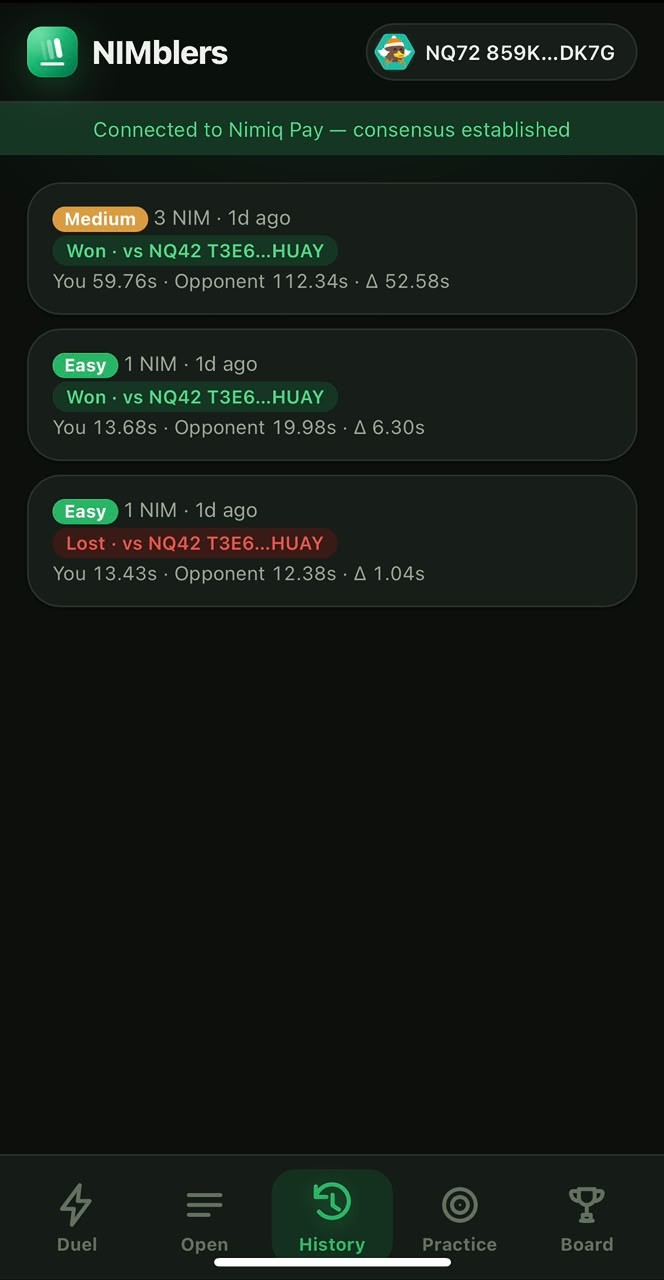
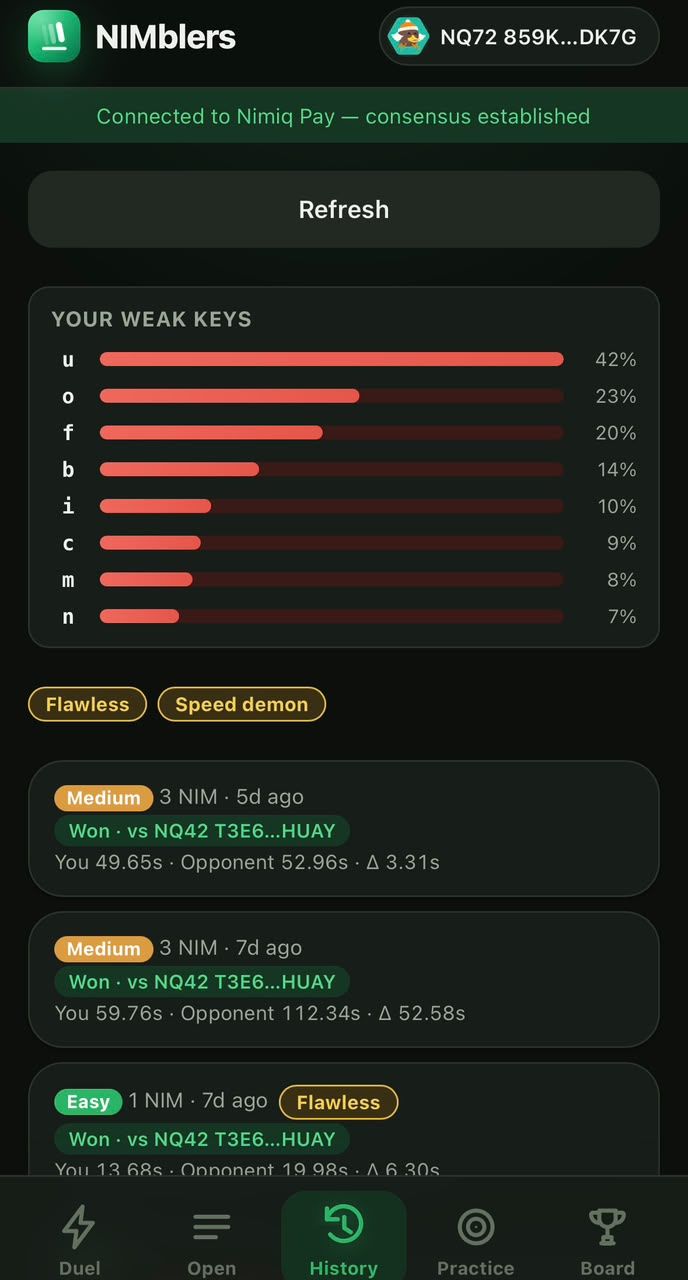
added all time leaderboard, updated images in readme

diff --git a/src/components/Leaderboard.tsx b/src/components/Leaderboard.tsx
@@ -1,63 +1,88 @@
-import { useEffect, useState } from 'react'
-import { errorMessage, formatAddressShort, formatLuna, readJsonOrThrow } from '../lib/api'
+import { useCallback, useEffect, useState } from 'react'
+import type { LeaderboardEntry, LeaderboardScope } from '../lib/api'
+import { errorMessage, fetchLeaderboard, formatAddressShort, formatLuna } from '../lib/api'
 import { BoardIcon } from './NavIcons'
 import { EmptyState } from './EmptyState'
 import { Identicon } from './Identicon'
 
-interface LeaderboardEntry {
-  rank: number
-  nimAddress: string
-  totalWonLuna: number
-  wins: number
-}
+/** Weekly is a fast-moving "who's hot right now" snapshot — 5 keeps it skimmable. All-time is a hall of fame players might actually want to scroll a bit further into. */
+const LIMIT_BY_SCOPE: Record<LeaderboardScope, number> = { weekly: 5, 'all-time': 10 }
 
 export function Leaderboard() {
+  const [scope, setScope] = useState<LeaderboardScope>('weekly')
   const [entries, setEntries] = useState<LeaderboardEntry[] | null>(null)
   const [error, setError] = useState<string | null>(null)
 
-  useEffect(() => {
-    let cancelled = false
-    fetch('/api/leaderboard')
-      .then((res) => readJsonOrThrow(res, 'Could not load the leaderboard'))
-      .then((body) => {
-        if (!cancelled) setEntries(body.leaderboard as LeaderboardEntry[])
-      })
-      .catch((err: unknown) => {
-        if (!cancelled) setError(errorMessage(err))
-      })
-    return () => {
-      cancelled = true
+  const load = useCallback(async (nextScope: LeaderboardScope) => {
+    try {
+      setEntries(await fetchLeaderboard(nextScope, LIMIT_BY_SCOPE[nextScope]))
+      setError(null)
+    }
+    catch (err) {
+      setError(errorMessage(err))
     }
   }, [])
 
-  if (error) return <p className="address-card-error">{error}</p>
-  if (entries === null) return <p className="section-note">Loading leaderboard…</p>
-  if (entries.length === 0) {
-    return (
-      <EmptyState
-        icon={<BoardIcon />}
-        title="No winners this week"
-        subtitle="Be the first to win a duel and claim the top spot. Resets every Monday 00:00 UTC."
-      />
-    )
-  }
+  useEffect(() => {
+    setEntries(null)
+    void load(scope)
+  }, [scope, load])
 
   return (
     <>
-      <p className="section-note">This week's winners — resets Monday 00:00 UTC.</p>
-      <ol className="leaderboard-list">
-        {entries.map((entry) => (
-          <li key={entry.nimAddress} className={`leaderboard-row ${entry.rank <= 3 ? `leaderboard-row-${entry.rank}` : ''}`}>
-            <span className={`leaderboard-medal ${entry.rank <= 3 ? `leaderboard-medal-${entry.rank}` : ''}`}>{entry.rank}</span>
-            <Identicon address={entry.nimAddress} size={28} />
-            <span className="leaderboard-address" title={entry.nimAddress}>{formatAddressShort(entry.nimAddress)}</span>
-            <span className="leaderboard-stats">
-              <span className="leaderboard-winnings">{formatLuna(entry.totalWonLuna)}</span>
-              <span className="leaderboard-wins">{entry.wins} win{entry.wins === 1 ? '' : 's'}</span>
-            </span>
-          </li>
-        ))}
-      </ol>
+      <div className="visibility-picker">
+        <button
+          type="button"
+          className={`btn btn-toggle ${scope === 'weekly' ? 'btn-toggle-active' : ''}`}
+          onClick={() => setScope('weekly')}
+        >
+          This week
+        </button>
+        <button
+          type="button"
+          className={`btn btn-toggle ${scope === 'all-time' ? 'btn-toggle-active' : ''}`}
+          onClick={() => setScope('all-time')}
+        >
+          All time
+        </button>
+      </div>
+      <button type="button" className="btn btn-secondary refresh-btn" onClick={() => void load(scope)}>
+        Refresh
+      </button>
+
+      {error && <p className="address-card-error">{error}</p>}
+      {entries === null && !error && <p className="section-note">Loading leaderboard…</p>}
+      {entries !== null && entries.length === 0 && (
+        <EmptyState
+          icon={<BoardIcon />}
+          title={scope === 'weekly' ? 'No winners this week' : 'No winners yet'}
+          subtitle={
+            scope === 'weekly'
+              ? 'Be the first to win a duel and claim the top spot. Resets every Monday 00:00 UTC.'
+              : 'Every NIM ever won will show up here, permanently.'
+          }
+        />
+      )}
+      {entries !== null && entries.length > 0 && (
+        <>
+          <p className="section-note">
+            {scope === 'weekly' ? "This week's winners — resets Monday 00:00 UTC." : 'Every NIM ever won, all-time.'}
+          </p>
+          <ol className="leaderboard-list">
+            {entries.map((entry) => (
+              <li key={entry.nimAddress} className={`leaderboard-row ${entry.rank <= 3 ? `leaderboard-row-${entry.rank}` : ''}`}>
+                <span className={`leaderboard-medal ${entry.rank <= 3 ? `leaderboard-medal-${entry.rank}` : ''}`}>{entry.rank}</span>
+                <Identicon address={entry.nimAddress} size={28} />
+                <span className="leaderboard-address" title={entry.nimAddress}>{formatAddressShort(entry.nimAddress)}</span>
+                <span className="leaderboard-stats">
+                  <span className="leaderboard-winnings">{formatLuna(entry.totalWonLuna)}</span>
+                  <span className="leaderboard-wins">{entry.wins} win{entry.wins === 1 ? '' : 's'}</span>
+                </span>
+              </li>
+            ))}
+          </ol>
+        </>
+      )}
     </>
   )
 }

diff --git a/server/leaderboard/service.ts b/server/leaderboard/service.ts
@@ -29,6 +29,26 @@ export function startOfWeekUtc(date: Date): Date {
   return new Date(Date.UTC(date.getUTCFullYear(), date.getUTCMonth(), date.getUTCDate() - daysSinceMonday))
 }
 
+async function rankByWinnings(db: Db, limit: number, since: Date | null): Promise<LeaderboardEntry[]> {
+  const rows = (await db.execute({
+    sql: `SELECT u.nim_address as nim_address, SUM(p.amount_luna) as total_won_luna, COUNT(*) as wins
+       FROM payouts p
+       JOIN users u ON u.id = p.user_id
+       WHERE p.type = 'PAYOUT' AND p.tx_hash IS NOT NULL ${since ? 'AND p.created_at >= ?' : ''}
+       GROUP BY p.user_id
+       ORDER BY total_won_luna DESC, wins DESC
+       LIMIT ?`,
+    args: since ? [since.toISOString(), limit] : [limit],
+  })).rows as unknown as LeaderboardRow[]
+
+  return rows.map((row, index) => ({
+    rank: index + 1,
+    nimAddress: row.nim_address,
+    totalWonLuna: row.total_won_luna,
+    wins: row.wins,
+  }))
+}
+
 /**
  * Ranks players by NIM won *this week only* — the sum of their completed
  * `PAYOUT` rows since the last Monday-00:00-UTC reset, which already
@@ -47,21 +67,14 @@ export function startOfWeekUtc(date: Date): Date {
  * activity or losses.
  */
 export async function getLeaderboard(db: Db, limit: number = DEFAULT_LEADERBOARD_LIMIT, now: Date = new Date()): Promise<LeaderboardEntry[]> {
-  const rows = (await db.execute({
-    sql: `SELECT u.nim_address as nim_address, SUM(p.amount_luna) as total_won_luna, COUNT(*) as wins
-       FROM payouts p
-       JOIN users u ON u.id = p.user_id
-       WHERE p.type = 'PAYOUT' AND p.tx_hash IS NOT NULL AND p.created_at >= ?
-       GROUP BY p.user_id
-       ORDER BY total_won_luna DESC, wins DESC
-       LIMIT ?`,
-    args: [startOfWeekUtc(now).toISOString(), limit],
-  })).rows as unknown as LeaderboardRow[]
+  return rankByWinnings(db, limit, startOfWeekUtc(now))
+}
 
-  return rows.map((row, index) => ({
-    rank: index + 1,
-    nimAddress: row.nim_address,
-    totalWonLuna: row.total_won_luna,
-    wins: row.wins,
-  }))
+/**
+ * The same ranking, but across every `PAYOUT` this house wallet has ever
+ * sent — no time window, nothing that resets. A weekly board rewards
+ * whoever's hot right now; this one is the actual hall of fame.
+ */
+export async function getAllTimeLeaderboard(db: Db, limit: number = DEFAULT_LEADERBOARD_LIMIT): Promise<LeaderboardEntry[]> {
+  return rankByWinnings(db, limit, null)
 }

diff --git a/server/leaderboard/service.test.ts b/server/leaderboard/service.test.ts
@@ -5,7 +5,7 @@ import type { Db } from '../db/client.ts'
 import { closeDb, getDb } from '../db/client.ts'
 import { migrateUp } from '../db/migrate.ts'
 import { getOrCreateUser } from '../db/users.ts'
-import { DEFAULT_LEADERBOARD_LIMIT, getLeaderboard, startOfWeekUtc } from './service.ts'
+import { DEFAULT_LEADERBOARD_LIMIT, getAllTimeLeaderboard, getLeaderboard, startOfWeekUtc } from './service.ts'
 
 process.env.DB_PATH = ':memory:'
 
@@ -132,4 +132,37 @@ test('getLeaderboard drops a player entirely once all their wins are from a prio
   const board = await getLeaderboard(db, DEFAULT_LEADERBOARD_LIMIT, new Date('2026-01-07T12:00:00Z'))
 
   assert.deepEqual(board, [])
+})
+
+// --- All-time ---
+
+test('getAllTimeLeaderboard includes a win no matter how long ago it settled', async () => {
+  const alice = await getOrCreateUser(db, ALICE)
+  await insertPayout(alice, 'PAYOUT', 500_000, { createdAt: '2020-01-01T00:00:00.000Z' })
+
+  const board = await getAllTimeLeaderboard(db)
+
+  assert.equal(board.length, 1)
+  assert.equal(board[0].totalWonLuna, 500_000)
+})
+
+test('getAllTimeLeaderboard sums wins across every week, not just the current one', async () => {
+  const alice = await getOrCreateUser(db, ALICE)
+  await insertPayout(alice, 'PAYOUT', 500_000, { createdAt: '2020-01-01T00:00:00.000Z' })
+  await insertPayout(alice, 'PAYOUT', 100_000, { createdAt: new Date().toISOString() })
+
+  const board = await getAllTimeLeaderboard(db)
+
+  assert.equal(board.length, 1)
+  assert.equal(board[0].totalWonLuna, 600_000)
+  assert.equal(board[0].wins, 2)
+})
+
+test('getAllTimeLeaderboard still excludes stakes, refunds, and unfulfilled payouts', async () => {
+  const alice = await getOrCreateUser(db, ALICE)
+  await insertPayout(alice, 'STAKE_RECEIVED', 100_000, { createdAt: '2020-01-01T00:00:00.000Z' })
+  await insertPayout(alice, 'REFUND', 100_000, { createdAt: '2020-01-01T00:00:00.000Z' })
+  await insertPayout(alice, 'PAYOUT', 100_000, { createdAt: '2020-01-01T00:00:00.000Z', fulfilled: false })
+
+  assert.deepEqual(await getAllTimeLeaderboard(db), [])
 })

diff --git a/server/leaderboard/httpServer.test.ts b/server/leaderboard/httpServer.test.ts
@@ -13,6 +13,7 @@ process.env.DB_PATH = ':memory:'
 
 const ALICE = 'NQ07 ALIC EAAA AAAA AAAA AAAA AAAA AAAA AAAA'
 const BOB = 'NQ07 BOBB AAAA AAAA AAAA AAAA AAAA AAAA AAAA'
+const CAROL = 'NQ07 CARO LAAA AAAA AAAA AAAA AAAA AAAA AAAA'
 
 let server: Server
 let baseUrl: string
@@ -76,4 +77,32 @@ test('GET /api/leaderboard ignores a bogus limit and falls back to the default',
   assert.equal(res.status, 200)
   const body = (await res.json()) as { leaderboard: unknown[] }
   assert.equal(body.leaderboard.length, 2)
+})
+
+test('GET /api/leaderboard/all-time includes a win from long before this week, which the weekly board excludes', async () => {
+  const db = await getDb()
+  const carol = await getOrCreateUser(db, CAROL)
+  await db.execute({
+    sql: `INSERT INTO payouts (id, idempotency_key, user_id, type, amount_luna, tx_hash, created_at)
+     VALUES (?, ?, ?, 'PAYOUT', ?, ?, ?)`,
+    args: [randomUUID(), randomUUID(), carol, 50_000, `tx-${randomUUID()}`, '2020-01-01T00:00:00.000Z'],
+  })
+
+  const weeklyRes = await fetch(`${baseUrl}/api/leaderboard`)
+  const weeklyBody = (await weeklyRes.json()) as { leaderboard: { nimAddress: string }[] }
+  assert.ok(!weeklyBody.leaderboard.some((e) => e.nimAddress === CAROL), 'the weekly board should not include a win from 2020')
+
+  const allTimeRes = await fetch(`${baseUrl}/api/leaderboard/all-time`)
+  assert.equal(allTimeRes.status, 200)
+  const allTimeBody = (await allTimeRes.json()) as { leaderboard: { nimAddress: string, totalWonLuna: number }[] }
+  assert.equal(allTimeBody.leaderboard.length, 3)
+  const carolEntry = allTimeBody.leaderboard.find((e) => e.nimAddress === CAROL)
+  assert.ok(carolEntry, 'the all-time board should include the 2020 win')
+  assert.equal(carolEntry.totalWonLuna, 50_000)
+})
+
+test('GET /api/leaderboard/all-time?limit=1 respects the limit', async () => {
+  const res = await fetch(`${baseUrl}/api/leaderboard/all-time?limit=1`)
+  const body = (await res.json()) as { leaderboard: unknown[] }
+  assert.equal(body.leaderboard.length, 1)
 })

diff --git a/server/leaderboard/httpServer.ts b/server/leaderboard/httpServer.ts
@@ -1,18 +1,31 @@
+import type { IncomingMessage } from 'node:http'
 import { getDb } from '../db/client.ts'
 import { getQueryParams, sendJson } from '../http/router.ts'
 import type { Router } from '../http/router.ts'
-import { DEFAULT_LEADERBOARD_LIMIT, getLeaderboard } from './service.ts'
+import { DEFAULT_LEADERBOARD_LIMIT, getAllTimeLeaderboard, getLeaderboard } from './service.ts'
 
 const MAX_LEADERBOARD_LIMIT = 100
+
+function parseLimit(req: IncomingMessage): number {
+  const requested = Number(getQueryParams(req).get('limit'))
+  return Number.isInteger(requested) && requested > 0
+    ? Math.min(requested, MAX_LEADERBOARD_LIMIT)
+    : DEFAULT_LEADERBOARD_LIMIT
+}
 
 export function registerLeaderboardRoutes(router: Router): void {
   router.get('/api/leaderboard', async (req, res) => {
     try {
-      const requested = Number(getQueryParams(req).get('limit'))
-      const limit = Number.isInteger(requested) && requested > 0
-        ? Math.min(requested, MAX_LEADERBOARD_LIMIT)
-        : DEFAULT_LEADERBOARD_LIMIT
-      sendJson(res, 200, { leaderboard: await getLeaderboard(await getDb(), limit) })
+      sendJson(res, 200, { leaderboard: await getLeaderboard(await getDb(), parseLimit(req)) })
+    }
+    catch (error) {
+      sendJson(res, 503, { error: error instanceof Error ? error.message : String(error) })
+    }
+  })
+
+  router.get('/api/leaderboard/all-time', async (req, res) => {
+    try {
+      sendJson(res, 200, { leaderboard: await getAllTimeLeaderboard(await getDb(), parseLimit(req)) })
     }
     catch (error) {
       sendJson(res, 503, { error: error instanceof Error ? error.message : String(error) })

diff --git a/src/lib/api.ts b/src/lib/api.ts
@@ -158,6 +158,23 @@ export async function fetchWeakKeys(nimAddress: string): Promise<WeakKeyStat[]> 
   return body.weakKeys as WeakKeyStat[]
 }
 
+export interface LeaderboardEntry {
+  rank: number
+  nimAddress: string
+  totalWonLuna: number
+  wins: number
+}
+
+export type LeaderboardScope = 'weekly' | 'all-time'
+
+/** `weekly` resets every Monday 00:00 UTC; `all-time` is every payout this house wallet has ever sent, no window. */
+export async function fetchLeaderboard(scope: LeaderboardScope, limit: number): Promise<LeaderboardEntry[]> {
+  const path = scope === 'weekly' ? '/api/leaderboard' : '/api/leaderboard/all-time'
+  const res = await fetch(`${path}?limit=${limit}`)
+  const body = await readJsonOrThrow(res, 'Could not load the leaderboard')
+  return body.leaderboard as LeaderboardEntry[]
+}
+
 export function formatSeconds(ms: number): string {
   return `${(ms / 1000).toFixed(2)}s`
 }

diff --git a/README.md b/README.md
@@ -25,8 +25,10 @@ An async 1v1 speed-typing wager, built as a Nimiq Pay Mini App.
 | Every settled duel, either side of it                                      | Ranked by NIM actually won, resets weekly                                     | The stake itself always goes through Nimiq Pay's own dialog                              |
 
 
-A settlement's payout, independently verified on-chain  
-![Testnet block explorer showing the real payout transaction](docs/screenshots/explorer-tx.jpg)  
+|                                                                                                |                                                                            |
+| ---------------------------------------------------------------------------------------------- | -------------------------------------------------------------------------- |
+| ![Staking screen with visibility, double trial, language, and difficulty pickers](docs/screenshots/duel-setup.jpg) | ![Testnet block explorer showing the real payout transaction](docs/screenshots/explorer-tx.jpg) |
+| Public or private, English/French/Spanish, three tiers — all picked before you stake            | A settlement's payout, independently verified on-chain                     |
   
 
 
